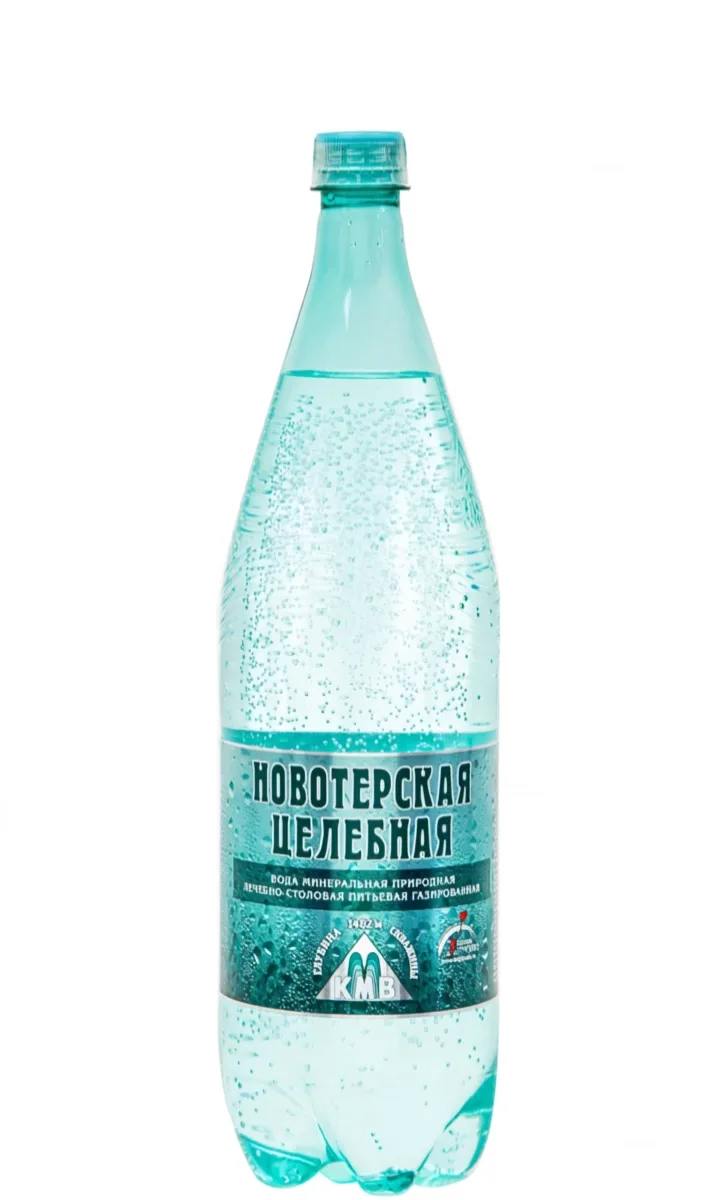
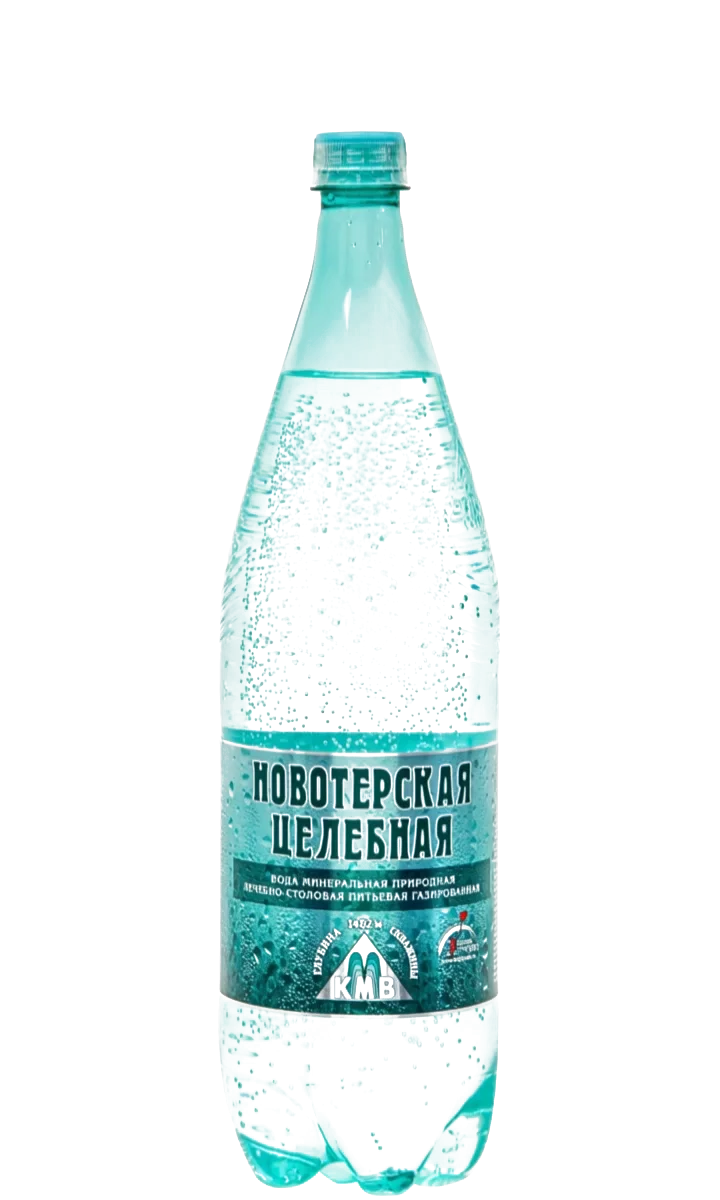
Видео бутылки: настоящий альфа-канал (VP9 yuva420p, colorkey) — фон вырезан в самом файле; multiply убран; прозрачный постер; mp4 без альфы удалён, Safari-фолбэк — статичное фото

diff --git a/index.html b/index.html
@@ -188,14 +188,13 @@
     <!-- The bottle over the full-bleed mountain, with mist at its base -->
     <figure class="hero-bottle reveal" aria-label="Бутылка Новотерская">
       <div class="bottle">
-        <!-- Видео бутылки со стекающей водой: белый фон растворяется multiply-блендом.
-             ТЗ п.14: poster + статичный fallback, первый экран не зависит от видео. -->
+        <!-- Видео бутылки со стекающей водой: настоящий альфа-канал (VP9 yuva420p),
+             фон вырезан. Safari без поддержки альфа-WebM получит статичное фото. -->
         <video class="bottle-video" id="bottleVideo" width="720" height="1200"
                muted playsinline preload="auto"
                poster="assets/video/bottle-hero-poster.webp"
                aria-label="Новотерская Целебная">
-          <source src="assets/video/bottle-hero.webm" type="video/webm" />
-          <source src="assets/video/bottle-hero.mp4" type="video/mp4" />
+          <source src="assets/video/bottle-hero.webm" type='video/webm; codecs="vp9"' />
           <img class="bottle-photo" src="assets/products/celebnaya-pet-05.webp" width="225" height="741" alt="Новотерская Целебная" />
         </video>
       </div>

diff --git a/css/style.css b/css/style.css
@@ -360,14 +360,12 @@ img, svg { display: block; max-width: 100%; }
   transform: rotate(17deg) translate(10%, 2%);
   filter: drop-shadow(-18px 30px 38px rgba(20,49,63,0.35));
 }
-/* Видео бутылки: белый фон ролика растворяется в странице (multiply),
-   как у камней-минералов; после последнего кадра видео застывает */
+/* Видео бутылки: настоящий альфа-канал (VP9), фон вырезан в самом файле */
 .bottle-video {
   display: block;
   height: 100%;
   width: auto;
   margin: 0 auto;
-  mix-blend-mode: multiply;
   animation: bottlefloat 6s ease-in-out infinite;
 }
 .bottle-photo {